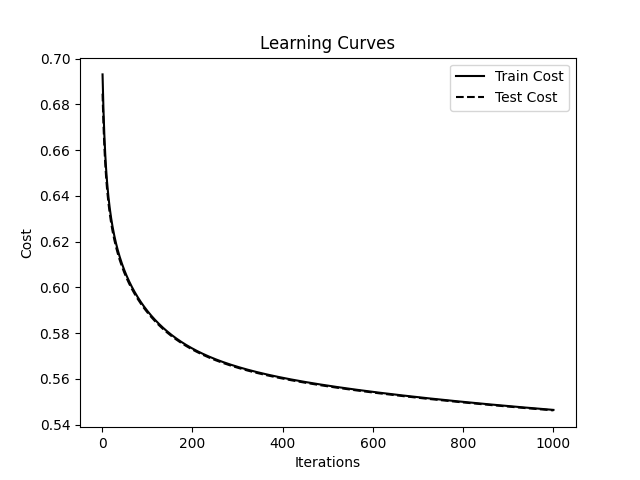
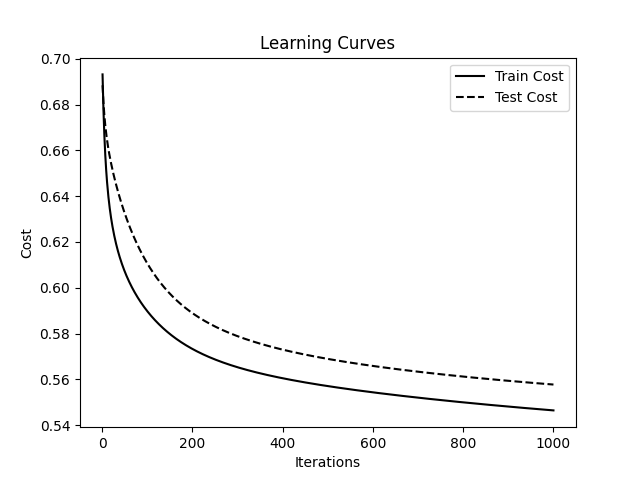
modify: README.md

diff --git a/main.py b/main.py
@@ -43,7 +43,7 @@ def main():
 
     # Balance data
     X_train, y_train = balance_dataset(X_train, y_train)
-    X_test, y_test = balance_dataset(X_test, y_test)
+    # X_test, y_test = balance_dataset(X_test, y_test)
 
     # Standardize the data
     X_train, X_test = standardize_data(X_train, X_test)

diff --git a/README.md b/README.md
@@ -92,21 +92,25 @@ python main.py
 
 График показывает кривые обучения модели логистической регрессии. Мы видим, что стоимость (cost) на обучающем наборе
 данных быстро уменьшается с увеличением числа итераций градиентного спуска. Стоимость на тестовом наборе также
-уменьшается, но не так быстро, как на обучающем. Это типичный паттерн, когда модель хорошо подгоняется к обучающим
-данным, но может переобучиться и не обобщаться так же хорошо на новых данных. Из обзора литературы следует, что данное
-поведение типично и является приемлемым для нашего классификатора.
+уменьшается, но не так быстро, как на обучающем.
 
 ### Метрики производительности модели
 
-| Метрика              | Значение |
-|----------------------|----------|
-| Accuracy (Точность)  | 0.7266   |
-| Precision (Точность) | 0.7202   |
-| Recall (Полнота)     | 0.7411   |
-| F1-score (F1-мера)   | 0.7305   |
+| Метрика   | Значение |
+|-----------|----------|
+| Accuracy  | 0.7154   |
+| Precision | 0.2928   |
+| Recall    | 0.7358   |
+| F1-score  | 0.4189   |
 
 Эти метрики показывают, что модель логистической регрессии достигла достаточно высоких результатов в задаче бинарной
-классификации на этом наборе данных. 
+классификации на этом наборе данных. Accuracy показывает, что модель верно предсказывает 71% всех наблюдений в наборе
+данных. При этом показатель Precision достаточно низок, он отвечает за количество ложноположительных предсказаний, то
+есть модель склонна предсказывать диабет там, где его нет на самом деле. Однако Recall значительно выше, чем в модели
+без применения предобработки данных, он отвечает за количество ложноотрицательных предсказаний. Таким образом, модель
+делает крайне мало предсказаний, в которых человек с диабетом получит прогноз о том, что у него диабета нет. Это очень
+важная и положительная характеристика модели. F1-score показывает гармоническое среднее между Precision и Recall, его
+высокое значние сигнализирует о качестве модели с учетом высокого Recall.
 
 
 
